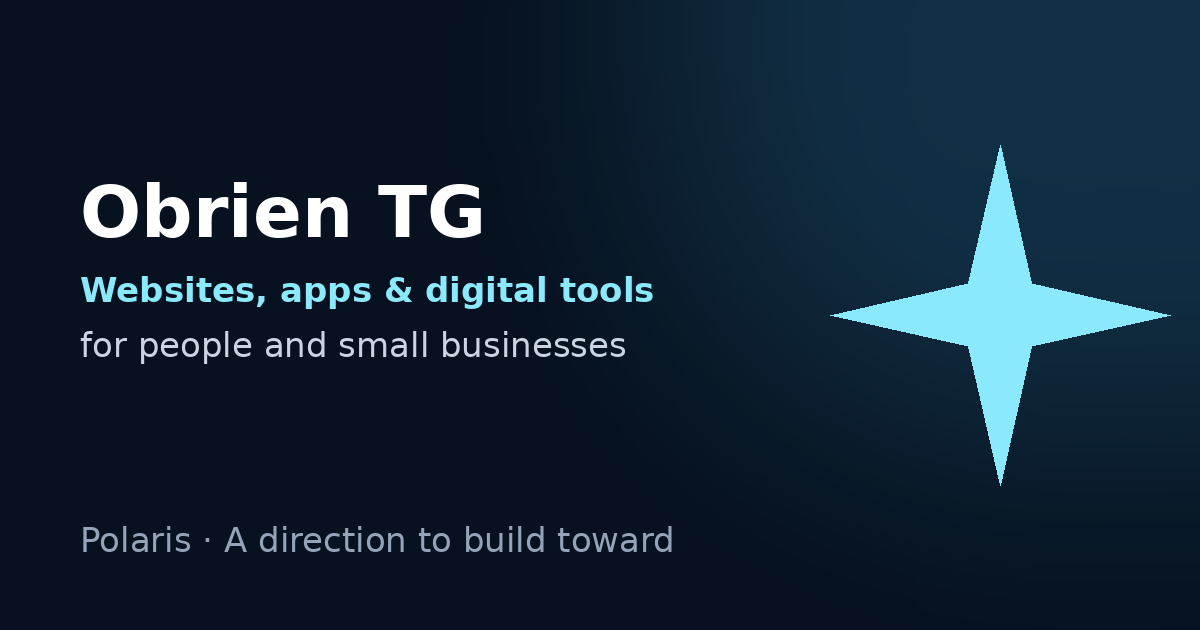
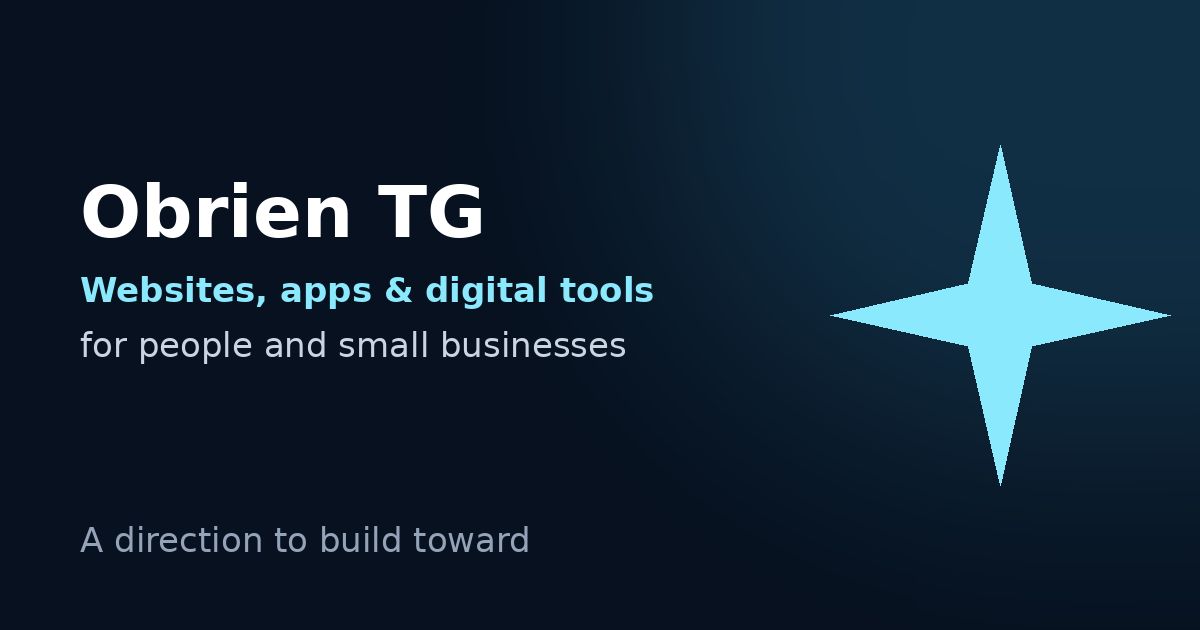
Remove Polaris wording, switch to Cloudflare hosting and Web3Forms

Changed region(s): [[0.0617, 0.8143, 0.5858, 0.8746]]

diff --git a/README.md b/README.md
@@ -1,4 +1,6 @@
-# Polaris — Obrien TG portfolio
+# Obrien TG portfolio
+
+✦ A direction to build toward.
 
 Personal page and portfolio for Obrien Takunda Gwanyanya.
 
@@ -40,9 +42,14 @@ Astro prints the local URL (normally `http://localhost:4321`).
 
 ## Deployment
 
-The included `netlify.toml` configures Netlify to run `npm run build` and publish
-the generated `dist` directory. Connect the repository in Netlify and deploy;
-the contact form is detected automatically through Netlify Forms.
+The site is hosted on Cloudflare (Workers static assets). `wrangler.jsonc` points at the generated `dist` folder, and `public/_headers` sets security headers and caching.
+
+In the Cloudflare dashboard, create a Workers project from this GitHub repository with:
+
+- Build command: `npm run build`
+- Deploy command: `npx wrangler deploy`
+
+The contact form posts to [Web3Forms](https://web3forms.com). Put your access key in `src/pages/contact/index.astro`; the build stops with a clear message if it is still the placeholder.
 
 Run `npm run check` and `npm run build` before publishing.
 
